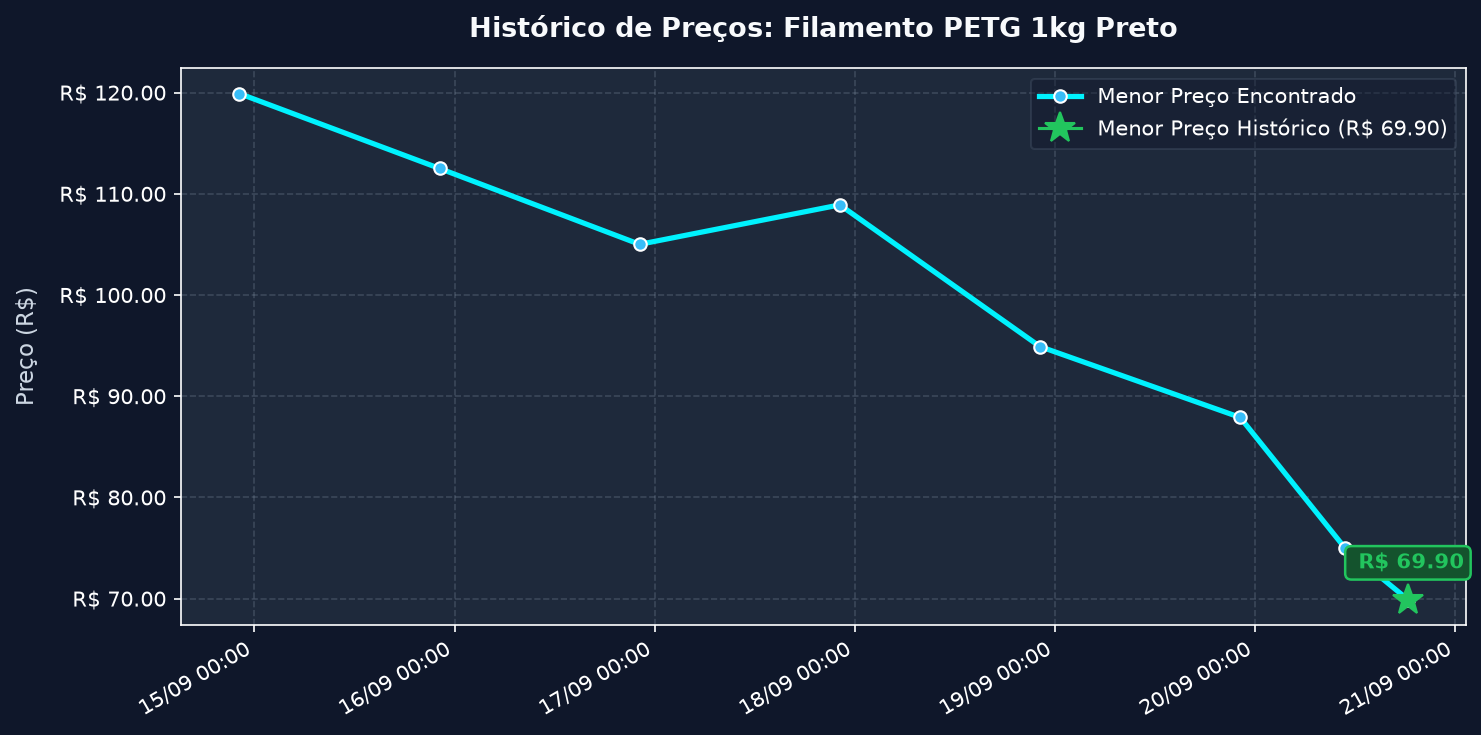
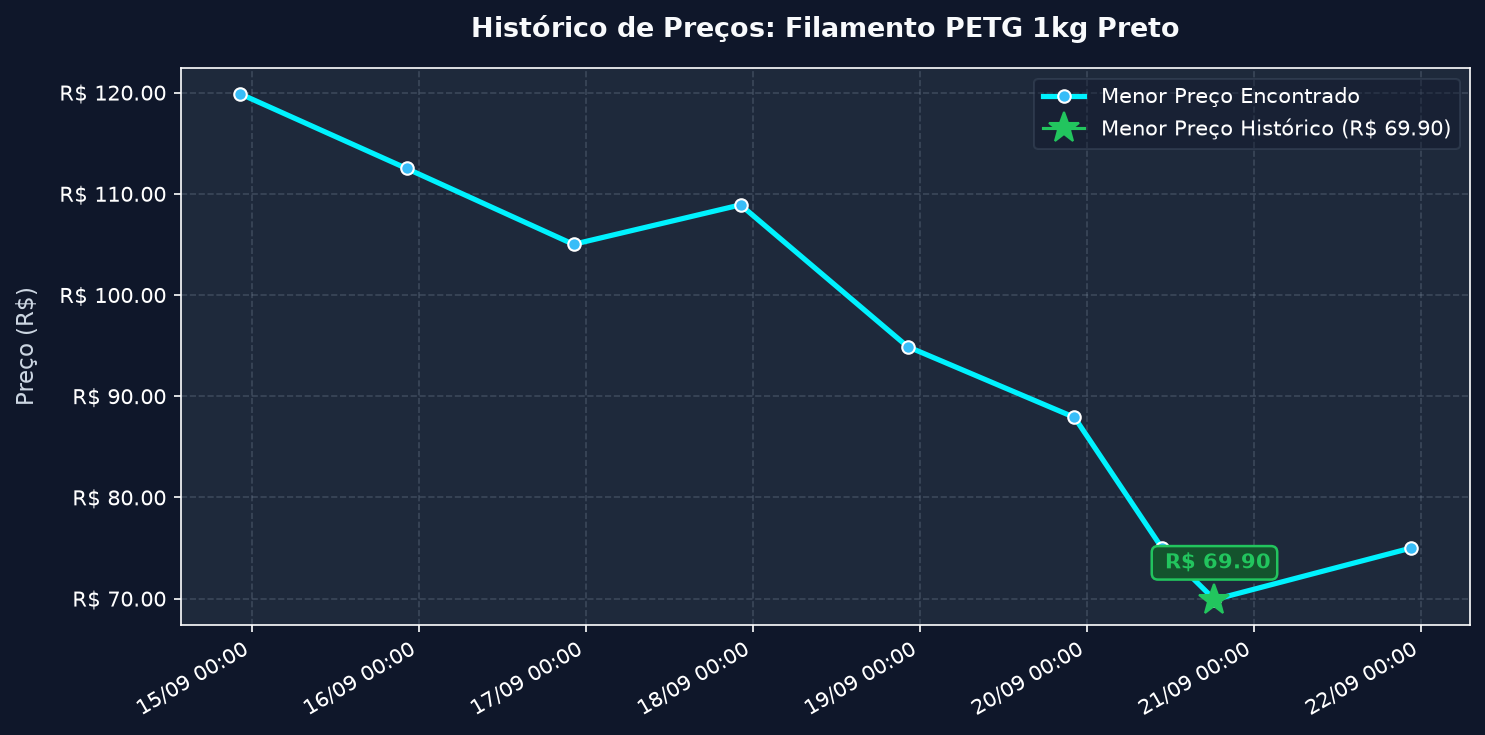
fix(pwa): registro antecipado no head, disparo automatico no botao e start_url limpa

diff --git a/public/sw.js b/public/sw.js
@@ -1,9 +1,10 @@
-const CACHE_NAME = 'portal-lab-v11';
-const POU_CACHE_NAME = 'portal-lab-v11-pou';
+const CACHE_NAME = 'portal-lab-v12';
+const POU_CACHE_NAME = 'portal-lab-v12-pou';
 
 
 const STATIC_ASSETS = [
   '/',
+  '/?source=pwa',
   '/img/logo-prof.png',
   '/img/robot-icon-192.png',
   '/img/robot-icon-512.png',
